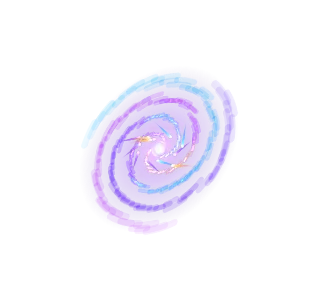
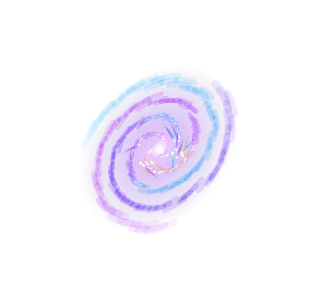
Premium pişti effects: sprite-based, 9 effects (Zafer Işığı, Altın, Havai, Yıldız, Şimşek, Lale Rüzgârı, Nazar, Taç Giyme, Kozmik Girdap), behind hero face during celebration
Claude-Session: https://claude.ai/code/session_01CsFEdfga1NVSso6TsM8PXG

Changed region(s): [[0.375, 0.4375, 0.5938, 0.625]]

diff --git a/kahvehane/game/src/ui/fxlib.ts b/kahvehane/game/src/ui/fxlib.ts
@@ -16,8 +16,11 @@ export interface Stage {
   /** kısa kenar (px): bütün ölçüler bunun yüzdesi */
   M: number;
   low: boolean;
-  /** Görsel düğüm (havuzdan ya da taze). w: taban genişlik (px), h yoksa görselin oranı; front: PİŞTİ yazısının önünde */
-  node(key: string, w: number, h?: number, front?: boolean): HTMLElement | null;
+  /** pişti kahramanı sahnede: yüzün dikdörtgeni (efekt onun arkasında, başın çevresinde oynar) */
+  face?: DOMRect;
+  /** Görsel düğüm (havuzdan ya da taze). w: taban genişlik (px), h yoksa görselin oranı; front: PİŞTİ yazısının önünde;
+   * top: kahraman sahnedeyken de en önde (yalnız yüzü örtmeyecek nesneler: başın üstündeki taç) */
+  node(key: string, w: number, h?: number, front?: boolean, top?: boolean): HTMLElement | null;
   run(n: HTMLElement, kf: Keyframe[], o: KeyframeAnimationOptions): void;
   /** tam sahne renkli ışık (yalnız opaklık) */
   flash(color: string, peak: number, ms: number, delay?: number): void;
@@ -78,8 +81,8 @@ function rays(s: Stage, at: Pt, key: string, base: number, t: number, dur: numbe
   ], {duration: dur, delay: t, easing: 'linear'});
 }
 /** Yıldız parıltısı: belirir (45° döner), söner */
-function twinkle(s: Stage, x: number, y: number, key: string, base: number, t: number, dur = 520, sc = 1, front = true): void {
-  const n = s.node(key, base, undefined, front);
+function twinkle(s: Stage, x: number, y: number, key: string, base: number, t: number, dur = 520, sc = 1, front = true, top = false): void {
+  const n = s.node(key, base, undefined, front, top);
   if (!n) return;
   const r0 = R(-20, 20);
   s.run(n, [
@@ -194,7 +197,7 @@ function klasik(s: Stage, at: Pt, jack: boolean): void {
     const ring2 = i >= 4;
     // üst yay: ♥ sol üst, ♠ yukarı sol, ♦ yukarı sağ, ♣ sağ üst (valede ikinci, daha geniş yay)
     const ang = ((ring2 ? -168 + (i - 4) * 52 : -150 + i * 40) * Math.PI) / 180;
-    const d = (ring2 ? 62 : 44) * m;
+    const d = (ring2 ? 62 : 44) * m * (s.face ? 1.25 : 1);
     const x1 = at.x + Math.cos(ang) * d, y1 = at.y + Math.sin(ang) * d * 0.85 - 6 * m;
     const spin = (i % 2 ? 1 : -1) * 360, tilt = (i % 2 ? -1 : 1) * 10;
     const D = 1550;
@@ -452,7 +455,7 @@ function lale(s: Stage, at: Pt, jack: boolean): void {
   glow(s, at, 'bloom:rose', 44 * m, T, 1100, 0.3, 2, 2.5, 1, 0.14);
   shock(s, at, 'ring:rose', 42 * m, T + 300, 700, 2.6);
   // açan lale: büyür ve döner, sonra yaprakları salıverip söner
-  const RS = 38 * m;
+  const RS = (s.face ? 60 : 38) * m; // kahramanın arkasında başın çevresinde dev bir lale
   const ro = s.node('rosette', RS);
   const OPEN = T + 320;
   if (ro)
@@ -503,7 +506,7 @@ function lale(s: Stage, at: Pt, jack: boolean): void {
 /** Nazar Boncuğu: cam nazar madalyonu belirir, parıldar; çatlayıp cam kırıklarına ve boncuklara saçılır. */
 function nazar(s: Stage, at: Pt, jack: boolean): void {
   const m = s.M / 100;
-  const S = 32 * m;
+  const S = (s.face ? 58 : 32) * m; // kahramanın arkasında dev nazar (hâle gibi)
   glow(s, at, 'bloom:blue', 40 * m, 0, 900, 0.3, 1.4, 1.2, 0.85, 0.3);
   const eye = s.node('eye', S);
   const TS = jack ? 760 : 660;
@@ -537,8 +540,11 @@ function nazar(s: Stage, at: Pt, jack: boolean): void {
 /** Taç Giyme: tepeden altın ışık iner, mücevherli taç yığına oturur (şok dalgası, toz), mücevherler parlar. */
 function tac(s: Stage, at: Pt, jack: boolean): void {
   const m = s.M / 100;
-  const cw = 46 * m, chh = (cw * 320) / 400;
-  const cy = at.y - 7 * m;
+  const f = s.face;
+  // kahraman sahnedeyse taç başın ÜSTÜNE oturur (yüzü örtmez); yoksa yığına
+  const cw = f ? Math.min(46 * m, f.width * 0.66) : 46 * m, chh = (cw * 320) / 400;
+  const cy = f ? f.y + f.height * 0.05 - chh * 0.4 : at.y - 7 * m;
+  if (f) at = {x: f.x + f.width / 2, y: cy + 7 * m};
   if (!s.low) {
     const sh = s.node('shaft', 46 * m);
     if (sh) {
@@ -556,7 +562,7 @@ function tac(s: Stage, at: Pt, jack: boolean): void {
   rays(s, {x: at.x, y: cy - chh * 0.1}, 'rays:gold', 86 * m, T - 40, 1500, 30, 0.9);
   glow(s, {x: at.x, y: cy}, 'bloom:gold', 50 * m, T - 30, 1100, 0.3, 1.7, 2.1, 0.95, 0.14);
   const D = 1850;
-  const cr = s.node('crown', cw);
+  const cr = s.node('crown', cw, undefined, false, !!f);
   if (cr) {
     const o = (ms: number): number => ms / D;
     s.run(cr, [
@@ -586,7 +592,7 @@ function tac(s: Stage, at: Pt, jack: boolean): void {
   sparks(s, {x: at.x, y: cy - chh * 0.2}, {n: jack ? 16 : 12, keys: ['spark:gold'], len: 12 * m, dist: [18 * m, 38 * m], ang: [-Math.PI * 0.92, -Math.PI * 0.08], fall: 30 * m, drag: 2.4, dur: [800, 1150], t: T, r0: 6 * m, align: true, front: true});
   // mücevher parıltıları (taç görselindeki taş konumları)
   const gems: [number, number, string][] = [[0, 0.24, 'glint:rose'], [-0.2, 0.22, 'glint:blue'], [0.2, 0.22, 'glint:blue'], [0, -0.2, 'glint:rose'], [-0.42, -0.26, 'glint:white'], [0.42, -0.26, 'glint:white']];
-  gems.slice(0, s.low ? 3 : 6).forEach(([gx, gy, key], i) => twinkle(s, at.x + gx * cw, cy + gy * chh, key, 11 * m, T + 160 + i * 140, 520, R(0.9, 1.2)));
+  gems.slice(0, s.low ? 3 : 6).forEach(([gx, gy, key], i) => twinkle(s, at.x + gx * cw, cy + gy * chh, key, 11 * m, T + 160 + i * 140, 520, R(0.9, 1.2), true, !!f));
   s.sfx(0, x => x.swoosh());
   s.sfx(T, x => x.fireworkBurst(1.25));
   s.sfx(T + 140, x => x.bonus());
@@ -597,7 +603,7 @@ function tac(s: Stage, at: Pt, jack: boolean): void {
 function girdap(s: Stage, at: Pt, jack: boolean): void {
   const m = s.M / 100;
   const TI = 900; // çöküş
-  const disc = s.node('disc', 64 * m);
+  const disc = s.node('disc', (s.face ? 92 : 64) * m);
   if (disc)
     s.run(disc, [
       {transform: tr(at.x, at.y, 0, 1.4, 1.05), opacity: 0},

diff --git a/kahvehane/game/src/ui/fx.ts b/kahvehane/game/src/ui/fx.ts
@@ -322,6 +322,8 @@ export class Fx {
   private qpools = new Map<string, Ring>();
   private qBack = h('div', 'kh-ql');
   private qFront = h('div', 'kh-ql is-front');
+  /** pişti kahramanı sahnedeyken bile en üstte kalan katman (yalnız yüzü örtmeyen taç vb.) */
+  private qTop = h('div', 'kh-ql is-top');
   private qFlash = h('div', 'kh-qflash');
   private warmed = false;
 
@@ -330,13 +332,13 @@ export class Fx {
     warmSprites(id, false);
   }
 
-  private qnode(key: string, w: number, h0?: number, front = false): HTMLElement | null {
+  private qnode(key: string, w: number, h0?: number, layer: 0 | 1 | 2 = 0): HTMLElement | null {
     const [sw, sh] = spriteSize(key);
     const hh = h0 ?? (w * sh) / sw;
-    const id = `${key}|${w.toFixed(0)}|${hh.toFixed(0)}|${front ? 1 : 0}`;
+    const id = `${key}|${w.toFixed(0)}|${hh.toFixed(0)}|${layer}`;
     let r = this.qpools.get(id);
     if (!r) {
-      const host = front ? this.qFront : this.qBack;
+      const host = layer === 2 ? this.qTop : layer === 1 ? this.qFront : this.qBack;
       r = new Ring(host, 22, () => {
         const n = h('i', 'kh-q');
         n.style.cssText = `width:${w.toFixed(1)}px;height:${hh.toFixed(1)}px;margin:${(-hh / 2).toFixed(1)}px 0 0 ${(-w / 2).toFixed(1)}px;background-image:url("${spriteUrl(key)}")`;
@@ -347,24 +349,33 @@ export class Fx {
     return r.get();
   }
 
+  /** Kahraman çıktı: efekt katmanları yerine (efekt katmanına) döner; süren animasyonlar sürer. */
+  heroDone(): void {
+    if (this.qBack.parentElement && this.qBack.parentElement !== this.el) {
+      this.el.insertBefore(this.qBack, this.qFlash.nextSibling);
+      this.el.insertBefore(this.qFront, this.qTop);
+    }
+  }
+
   /** Oyundaki sahne: bu katman, havuz düğümleri, sesler. Kullanılan düğümler efekt bitince TOPLUCA gizlenir
    * (her düğüm için ayrı bitiş işleyicisi + display değişimi = her karede stil hesabı olurdu). */
   private tok = 0;
   private qanim = new WeakMap<HTMLElement, Animation>();
-  private stage(low: boolean, used: HTMLElement[], tok: string): Stage {
+  private stage(low: boolean, used: HTMLElement[], tok: string, face?: DOMRect): Stage {
     const W = this.W, H = this.H;
-    if (!this.qBack.isConnected) {
+    if (!this.qFlash.isConnected) {
       // arka katman damganın (z 2) altında, ön katman üstünde; ekran ışığı en arkada
       this.el.prepend(this.qFlash, this.qBack);
-      this.el.append(this.qFront);
+      this.el.append(this.qFront, this.qTop);
     }
     return {
       W,
       H,
       M: Math.min(W, H),
       low,
-      node: (key, w, hh, front) => {
-        const n = this.qnode(key, w, hh, front);
+      face,
+      node: (key, w, hh, front, top) => {
+        const n = this.qnode(key, w, hh, top ? 2 : front ? 1 : 0);
         if (n) {
           n.style.display = 'none'; // gösterim, animasyonu başlarken (aşağıda)
           n.dataset.tok = tok;
@@ -399,8 +410,12 @@ export class Fx {
     };
   }
 
-  /** Kuşanılmış pişti efekti (bkz. src/ui/fxlib.ts). Vale piştide daha yoğun; `low`: yarı parçacık, ikincil katman yok. */
-  pistiFx(id: string, jack: boolean, at: Pt, low = false): void {
+  /**
+   * Kuşanılmış pişti efekti (bkz. src/ui/fxlib.ts). Vale piştide daha yoğun; `low`: yarı parçacık, ikincil katman yok.
+   * hero: pişti kahramanı (büyük portre) sahnedeyken efekt onun ARKASINDA, başının çevresinde bir hâle gibi oynar
+   * (yüz asla örtülmez): katmanlar kahraman bandıyla portre arasına taşınır; yalnız taç başın üstünde, önde durur.
+   */
+  pistiFx(id: string, jack: boolean, at: Pt, low = false, hero?: {host: HTMLElement; before: Element; face: DOMRect}): void {
     if (!ANIM) return;
     if (!this.warmed) {
       this.warmed = true;
@@ -408,7 +423,14 @@ export class Fx {
     }
     const used: HTMLElement[] = [], tok = String(++this.tok);
     const fx = FX[id] ? id : 'klasik';
-    FX[fx](this.stage(low, used, tok), at, jack);
+    const st = this.stage(low, used, tok, hero?.face);
+    if (hero) {
+      hero.host.insertBefore(this.qBack, hero.before);
+      hero.host.insertBefore(this.qFront, hero.before);
+      const f = hero.face;
+      at = {x: f.x + f.width / 2, y: f.y + f.height * 0.14};
+    } else this.heroDone();
+    FX[fx](st, at, jack);
     // bitince topluca gizle (durdurulmuş/uzamış animasyonu olan düğüm bir süre daha bekler)
     const sweep = (): void => {
       let left = 0;

diff --git a/kahvehane/game/src/ui/hud.ts b/kahvehane/game/src/ui/hud.ts
@@ -9,7 +9,7 @@ import type {Mode, SeatPlayer} from '../game/types';
 import {ANIM, EASE, Scope, countUp, esc, fmt, h, play, q} from './dom';
 import {ASSETS} from './assets';
 import {I} from './icons';
-import {gemHtml} from './parts';
+import {FACE_BOX, gemHtml} from './parts';
 import {g3, type Fx} from './fx';
 
 /** Rozet konumu: alt (ben, sol alt), üst (1'e 1 rakip), top4 (4 kişide karşı), sol, sağ. */
@@ -635,9 +635,13 @@ export class HudView implements GameHud {
         {transform: 'scale(1)', opacity: 1, offset: out}, {transform: 'scale(.8)', opacity: 0}], {duration: D, easing: 'ease-out', fill: 'both'});
     this.snd?.swoosh();
     this.scope.timeout(() => this.fx.stamp(o.jack, o.points, H * 0.66, D - 160, true), 150);
-    this.scope.timeout(() => this.fx.pistiFx(o.fx, o.jack, o.at, o.low), 120);
+    // efekt kahramanın ARKASINDA, başının çevresinde oynar (yüz örtülmez); yüz kutusu portrenin yerleşiminden (kayma hariç)
+    const fs = fig.offsetWidth;
+    const face = new DOMRect(fig.offsetLeft + fs * FACE_BOX.l, fig.offsetTop + fs * FACE_BOX.t, fs * (FACE_BOX.r - FACE_BOX.l), fs * (FACE_BOX.b - FACE_BOX.t));
+    this.scope.timeout(() => this.fx.pistiFx(o.fx, o.jack, o.at, o.low, {host: hero, before: fig, face}), 120);
     b.react('pisti', D);
     await this.scope.wait(D + 60);
+    this.fx.heroDone();
     hero.className = 'kh-hero';
     hero.getAnimations({subtree: true}).forEach(a => a.cancel());
   }

diff --git a/kahvehane/game/src/ui/hud.css b/kahvehane/game/src/ui/hud.css
@@ -23,6 +23,8 @@
 .kh-badge { --bs: calc(var(--u) * 5.2); position: absolute; width: var(--bs); height: var(--bs); }
 .kh-badge.is-top { --bs: calc(var(--u) * 6.3); left: 50%; top: max(calc(var(--u) * 1.15), calc(env(safe-area-inset-top) + var(--u) * .7)); margin-left: calc(var(--bs) / -2); }
 .kh-badge.is-top4 { --bs: calc(var(--u) * 5.1); left: 50%; top: max(calc(var(--u) * 1.05), calc(env(safe-area-inset-top) + var(--u) * .6)); margin-left: calc(var(--bs) / -2); }
+/* üst rakip rozeti pişti kahramanının (z 8) ve onun arkasındaki efekt hâlesinin üstünde kalır: yüzü hiçbir efekt örtmez */
+.kh-badge.is-top, .kh-badge.is-top4 { z-index: 9; }
 .kh-badge.is-bottom { --bs: calc(var(--u) * 5.4); left: max(calc(var(--u) * 1.1), env(safe-area-inset-left)); bottom: max(calc(var(--u) * 3.6), calc(env(safe-area-inset-bottom) + var(--u) * 3)); }
 .kh-badge.is-left { --bs: calc(var(--u) * 4.6); left: max(calc(var(--u) * .8), env(safe-area-inset-left)); top: var(--kh-side-top, 24.5%); }
 .kh-badge.is-right { --bs: calc(var(--u) * 4.6); right: max(calc(var(--u) * .8), env(safe-area-inset-right)); top: var(--kh-side-top, 24.5%); }

diff --git a/kahvehane/game/src/ui/fx.css b/kahvehane/game/src/ui/fx.css
@@ -72,6 +72,9 @@
    filtre/maske yok. Arka katman damganın (z 2) altında, ön katman (küçük parıltılar) üstünde. */
 .kh-ql { position: absolute; inset: 0; z-index: 1; pointer-events: none; perspective: 900px; }
 .kh-ql.is-front { z-index: 3; }
+.kh-ql.is-top { z-index: 4; }
+/* kahramanın arkasındayken (bant ile portre arası) */
+.kh-hero > .kh-ql { z-index: auto; }
 .kh-q { position: absolute; left: 0; top: 0; display: none; pointer-events: none; background: center / 100% 100% no-repeat; will-change: transform, opacity; backface-visibility: visible; }
 .kh-qflash { position: absolute; inset: 0; z-index: 0; opacity: 0; pointer-events: none; }
 /* önizleme sahnesi (market ürün penceresi, ızgara küçük resmi, Dene) */
